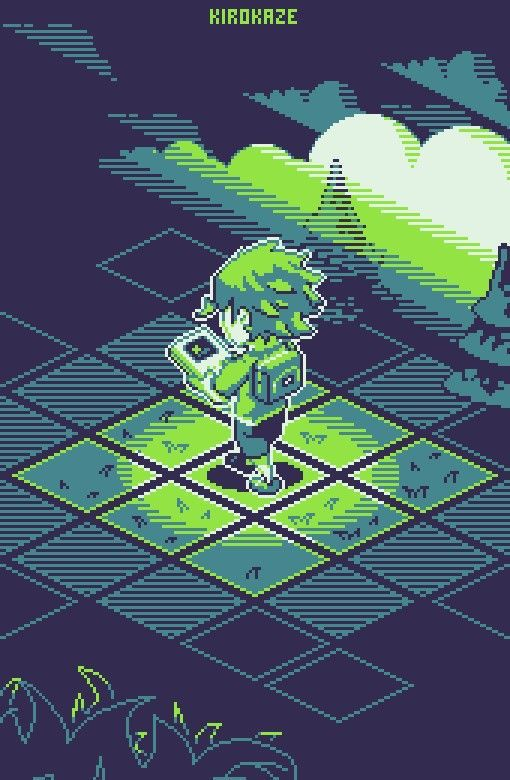
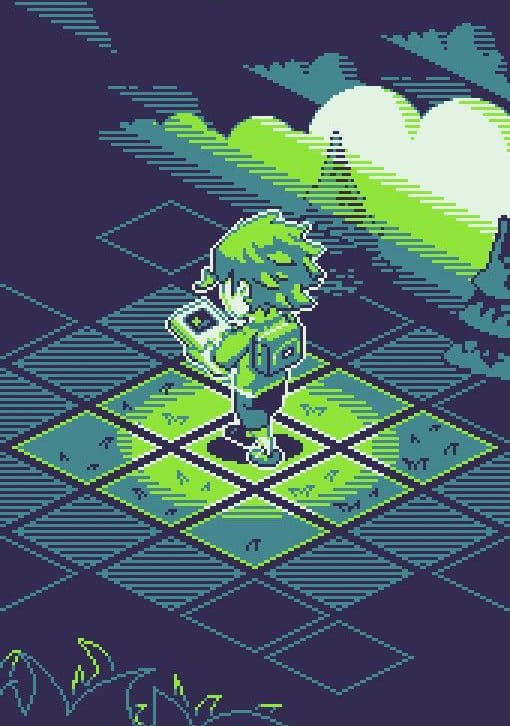
Theme section pictures updated + better responsiveness

diff --git a/src/components/ThemesSection/ThemesSection.jsx b/src/components/ThemesSection/ThemesSection.jsx
@@ -12,6 +12,7 @@ const pressStart = Press_Start_2P({
   weight: "400",
   subsets: ["latin"],
 });
+
 const orbitron = Orbitron({
   weight: ["400", "700"],
   subsets: ["latin"],
@@ -33,33 +34,66 @@ export default function ThemeSection() {
     const check = () => {
       const w = window.innerWidth;
       setIsSmallScreen(w <= 640);
-      setIsMediumScreen(w > 640 && w <= 1024);
+      setIsMediumScreen(w > 640 && w <= 1100);
     };
     check();
     window.addEventListener("resize", check);
     return () => window.removeEventListener("resize", check);
   }, []);
 
-  const expandedWidth = "46%";
-  const collapsedWidth = "9%";
+  const isDesktop = !isSmallScreen && !isMediumScreen;
+
+  // sizing
+  const expandedWidth = "34%";
+  const collapsedWidth = "11%";
   const idleWidth = "14%";
 
   const anyActive = lockedIndex !== null || activeIndex !== null;
   const mobileCardHeight = "260px";
 
+  // 🔽 dynamic spacing (THIS IS THE CHANGE YOU ASKED FOR)
+  const desktopGap = anyActive ? "gap-2" : "gap-3";
+  const gridGap = anyActive ? "gap-3" : "gap-4";
+  const mobileGap = anyActive ? "gap-3" : "gap-4";
+
   return (
     <section
       id="themes"
-      className="relative py-28 w-screen min-h-[1000px] pt-[18vh] text-white bg-cover bg-center overflow-hidden"
-      style={{
-        backgroundImage: 'url("/backgrounds/themes.png")',
-        backgroundSize: "cover",
-        backgroundPosition: "top center",
-        backgroundRepeat: "no-repeat",
-      }}
+      className="relative py-28 w-screen min-h-screen lg:min-h-[1000px] pt-[18vh] text-white overflow-hidden"
+      style={
+        isSmallScreen
+          ? {}
+          : {
+              backgroundImage: 'url("/backgrounds/themes.png")',
+              backgroundSize: "cover",
+              backgroundPosition: "top center",
+              backgroundRepeat: "no-repeat",
+            }
+      }
     >
-      <div className="absolute inset-0 bg-black/20 z-0" />
+      {/* HEADER GLOW */}
+      <div
+        aria-hidden
+        className="absolute top-0 left-0 w-full h-[22vh] z-[1] pointer-events-none"
+        style={{
+          background:
+            "linear-gradient(to bottom, rgba(180,80,255,0.45), rgba(120,40,200,0.18), rgba(0,0,0,0))",
+        }}
+      />
 
+      {/* BOTTOM FADE */}
+      <div
+        aria-hidden
+        className="absolute bottom-0 left-0 w-full h-[22vh] z-[1] pointer-events-none"
+        style={{
+          background:
+            "linear-gradient(to top, rgba(0,0,0,0.95), rgba(0,0,0,0))",
+        }}
+      />
+
+      <div className="absolute inset-0 bg-black/10 z-0" />
+
+      {/* ================= CONTENT ================= */}
       <div className="relative z-10 max-w-[1400px] mx-auto px-6">
         {/* Heading */}
         <motion.div
@@ -81,145 +115,143 @@ export default function ThemeSection() {
           transition={{ duration: 0.6 }}
           className="mt-12 w-full"
         >
-          <div className="relative w-full">
-            {/* Responsive layout switching */}
-            <div
-              className={
-                isMediumScreen
-                  ? "grid grid-cols-2 gap-6 place-items-center"
-                  : isSmallScreen
-                  ? "flex flex-col gap-6"
-                  : "flex gap-4 items-stretch justify-center"
-              }
-            >
-              {tabData.map((theme, idx) => {
-                let isActive = lockedIndex === idx || activeIndex === idx;
+          <div
+            className={
+              isSmallScreen
+                ? `flex flex-col ${mobileGap}`
+                : isMediumScreen
+                ? `grid grid-cols-3 ${gridGap} place-items-center`
+                : `flex ${desktopGap} items-stretch justify-center`
+            }
+          >
+            {tabData.map((theme, idx) => {
+              const isActive = lockedIndex === idx || activeIndex === idx;
 
-                if (isSmallScreen || isMediumScreen) {
-                  isActive = false;
-                }
-
-                const targetWidth = isSmallScreen
-                  ? "100%"
-                  : isMediumScreen
-                  ? "100%"
-                  : anyActive
+              const targetWidth = isDesktop
+                ? anyActive
                   ? isActive
                     ? expandedWidth
                     : collapsedWidth
-                  : idleWidth;
+                  : idleWidth
+                : "100%";
 
-                const forcedStyle = isSmallScreen
-                  ? { width: "100%", minWidth: "100%", height: mobileCardHeight }
-                  : isMediumScreen
-                  ? { width: "100%", minWidth: "100%" }
+              const forcedStyle =
+                !isDesktop
+                  ? {
+                      width: "100%",
+                      minWidth: "100%",
+                      height: isSmallScreen ? mobileCardHeight : "460px",
+                    }
                   : {};
 
-                return (
-                  <motion.div
-                    key={theme.id ?? idx}
-                    initial={false}
-                    animate={{ width: targetWidth }}
-                    transition={{ duration: 0.35, ease: "easeInOut" }}
-                    onMouseEnter={() => {
-                      if (!isSmallScreen && !isMediumScreen && lockedIndex === null)
-                        setActiveIndex(idx);
-                    }}
-                    onMouseLeave={() => {
-                      if (!isSmallScreen && !isMediumScreen && lockedIndex === null)
-                        setActiveIndex(null);
-                    }}
-                    onClick={() => {
-                      if (!isSmallScreen && !isMediumScreen)
-                        setLockedIndex((prev) => (prev === idx ? null : idx));
-                    }}
-                    className="relative h-[460px] min-w-[80px] flex-shrink-0 rounded-3xl overflow-hidden border border-white/10 bg-black cursor-pointer"
-                    style={forcedStyle}
-                  >
-                    {/* Image */}
-                    <div className="absolute inset-0">
-                      <Image
-                        src={theme.img1}
-                        alt={theme.heading}
-                        fill
-                        className="object-cover"
+              return (
+                <motion.div
+                  key={theme.id ?? idx}
+                  initial={false}
+                  animate={{ width: targetWidth }}
+                  transition={{ duration: 0.32, ease: "easeInOut" }}
+                  onMouseEnter={() => {
+                    if (isDesktop && lockedIndex === null) {
+                      setActiveIndex(idx);
+                    }
+                  }}
+                  onMouseLeave={() => {
+                    if (isDesktop && lockedIndex === null) {
+                      setActiveIndex(null);
+                    }
+                  }}
+                  onClick={() => {
+                    setLockedIndex((prev) =>
+                      prev === idx ? null : idx
+                    );
+                  }}
+                  className="relative h-[460px] min-w-[80px] flex-shrink-0 rounded-3xl overflow-hidden border border-white/10 bg-black cursor-pointer"
+                  style={forcedStyle}
+                >
+                  {/* Image */}
+                  <div className="absolute inset-0">
+                    <Image
+                      src={theme.img1}
+                      alt={theme.heading}
+                      fill
+                      className="object-cover"
+                    />
+                  </div>
+
+                  {/* Collapsed overlay */}
+                  <AnimatePresence>
+                    {!isActive && (
+                      <motion.div
+                        initial={{ opacity: 0 }}
+                        animate={{ opacity: 1 }}
+                        exit={{ opacity: 0 }}
+                        className="absolute inset-0 bg-gradient-to-t from-black/60 via-black/30 to-transparent"
                       />
-                    </div>
+                    )}
+                  </AnimatePresence>
 
-                    {/* Gradient overlay for collapsed cards */}
-                    <AnimatePresence>
-                      {!isActive && (
-                        <motion.div
-                          initial={{ opacity: 0 }}
-                          animate={{ opacity: 1 }}
-                          exit={{ opacity: 0 }}
-                          className="absolute inset-0 bg-gradient-to-t from-black/60 via-black/30 to-transparent"
+                  {/* Text */}
+                  <div className="absolute inset-0 flex flex-col justify-end p-6 z-10">
+                    {!isActive ? (
+                      <div className="w-full flex justify-center items-center">
+                        <h3
+                          className={`
+                            ${orbitron.className}
+                            ${
+                              anyActive && isDesktop
+                                ? "text-xs md:text-sm"
+                                : "text-base md:text-lg"
+                            }
+                            font-semibold text-white/95 text-center
+                          `}
+                        >
+                          {theme.heading}
+                        </h3>
+                      </div>
+                    ) : (
+                      <motion.div
+                        initial={{ opacity: 0, y: 12 }}
+                        animate={{ opacity: 1, y: 0 }}
+                        transition={{ duration: 0.28 }}
+                        className="absolute inset-x-0 bottom-0 rounded-b-3xl overflow-hidden"
+                        style={{ maxHeight: "60%" }}
+                      >
+                        {/* BLUR + GRADIENT */}
+                        <div
+                          className="
+                            absolute inset-0
+                            backdrop-blur-2xl
+                            bg-gradient-to-t
+                            from-black/85
+                            via-black/45
+                            to-transparent
+                          "
                         />
-                      )}
-                    </AnimatePresence>
 
-                    {/* Text container */}
-                    <div
-                      className={`absolute inset-0 flex flex-col justify-end p-6 z-10 ${
-                        isActive ? "pointer-events-auto" : "pointer-events-none"
-                      }`}
-                    >
-                      {/* COLLAPSED TITLE (always centered even on small screens) */}
-                      {!isActive ? (
-                        <div className="w-full flex justify-center items-center">
+                        {/* CONTENT */}
+                        <div className="relative z-10 p-5 overflow-auto">
                           <h3
-                            className={`${orbitron.className} text-base md:text-lg font-semibold text-white/95 text-center w-full`}
+                            className={`${orbitron.className} text-xl md:text-2xl font-bold text-center mb-2`}
                           >
                             {theme.heading}
                           </h3>
+
+                          <p className="text-sm text-white/90 leading-relaxed">
+                            {theme.content}
+                          </p>
+
+                          {theme.prize_amt && (
+                            <p className="mt-3 text-sm text-white/80">
+                              Prize: {theme.prize_amt}
+                            </p>
+                          )}
                         </div>
-                      ) : (
-                        <>
-                          {/* EXPANDED CONTENT (bottom gradient + blur) */}
-                          <div className="expanded-card-wrapper w-full pointer-events-auto">
-                            <motion.div
-                              initial={{ opacity: 0, y: 12 }}
-                              animate={{ opacity: 1, y: 0 }}
-                              exit={{ opacity: 0, y: 12 }}
-                              transition={{ duration: 0.28 }}
-                              className="
-                                absolute inset-x-0 bottom-0 p-5 backdrop-blur-xl
-                                bg-gradient-to-t from-black/75 via-black/40 to-transparent
-                                rounded-b-3xl
-                              "
-                              style={{
-                                maxHeight: "55%",
-                                overflow: "auto",
-                                maskImage:
-                                  "linear-gradient(to top, black 60%, rgba(0,0,0,0.7) 80%, transparent 100%)",
-                                WebkitMaskImage:
-                                  "linear-gradient(to top, black 60%, rgba(0,0,0,0.7) 80%, transparent 100%)",
-                              }}
-                            >
-                              <h3
-                                className={`${orbitron.className} text-2xl font-bold text-center mb-2`}
-                              >
-                                {theme.heading}
-                              </h3>
-
-                              <p className="text-sm text-white/90 leading-relaxed">
-                                {theme.content}
-                              </p>
-
-                              {theme.prize_amt && (
-                                <p className="mt-3 text-sm text-white/80">
-                                  Prize: {theme.prize_amt}
-                                </p>
-                              )}
-                            </motion.div>
-                          </div>
-                        </>
-                      )}
-                    </div>
-                  </motion.div>
-                );
-              })}
-            </div>
+                      </motion.div>
+                    )}
+                  </div>
+                </motion.div>
+              );
+            })}
           </div>
         </motion.div>
       </div>

diff --git a/src/components/ThemesSection/data.js b/src/components/ThemesSection/data.js
@@ -1,10 +1,10 @@
-import blockchain from "@/assets/ThemesSection/blockchain.jpeg";
+import blockchain from "@/assets/ThemesSection/cyber.jpeg";
 import Edtech from "@/assets/ThemesSection/edtech.jpeg";
-import foodtech from "@/assets/ThemesSection/travel.png";
-import health from "@/assets/ThemesSection/healthcare.png";
-import open_innov from "@/assets/ThemesSection/open_innov.jpeg";
+import foodtech from "@/assets/ThemesSection/travel.jpeg";
+import health from "@/assets/ThemesSection/health.jpeg";
+import open_innov from "@/assets/ThemesSection/open.jpeg";
 import climate from "@/assets/ThemesSection/climate.jpg";
-import ai from "@/assets/ThemesSection/ai.jpeg";
+import ai from "@/assets/ThemesSection/aii.jpeg";
 
 export const tabData = [
   {

diff --git a/src/app/globals.css b/src/app/globals.css
@@ -175,3 +175,20 @@
 }
 
 /* .cursor-target { outline: 2px dashed rgba(255,0,0,0.6); } */
+
+.gallery-decor {
+  background:
+    radial-gradient(circle at 20% 20%, rgba(180, 0, 255, 0.08), transparent 40%),
+    radial-gradient(circle at 80% 30%, rgba(0, 255, 255, 0.06), transparent 45%),
+    radial-gradient(circle at 50% 80%, rgba(255, 0, 180, 0.05), transparent 50%),
+    linear-gradient(180deg, #050008, #080010);
+}
+
+.header-blend {
+  background: linear-gradient(
+    to bottom,
+    rgba(0, 0, 0, 0.95),
+    rgba(0, 0, 0, 0.7),
+    rgba(0, 0, 0, 0)
+  );
+}
